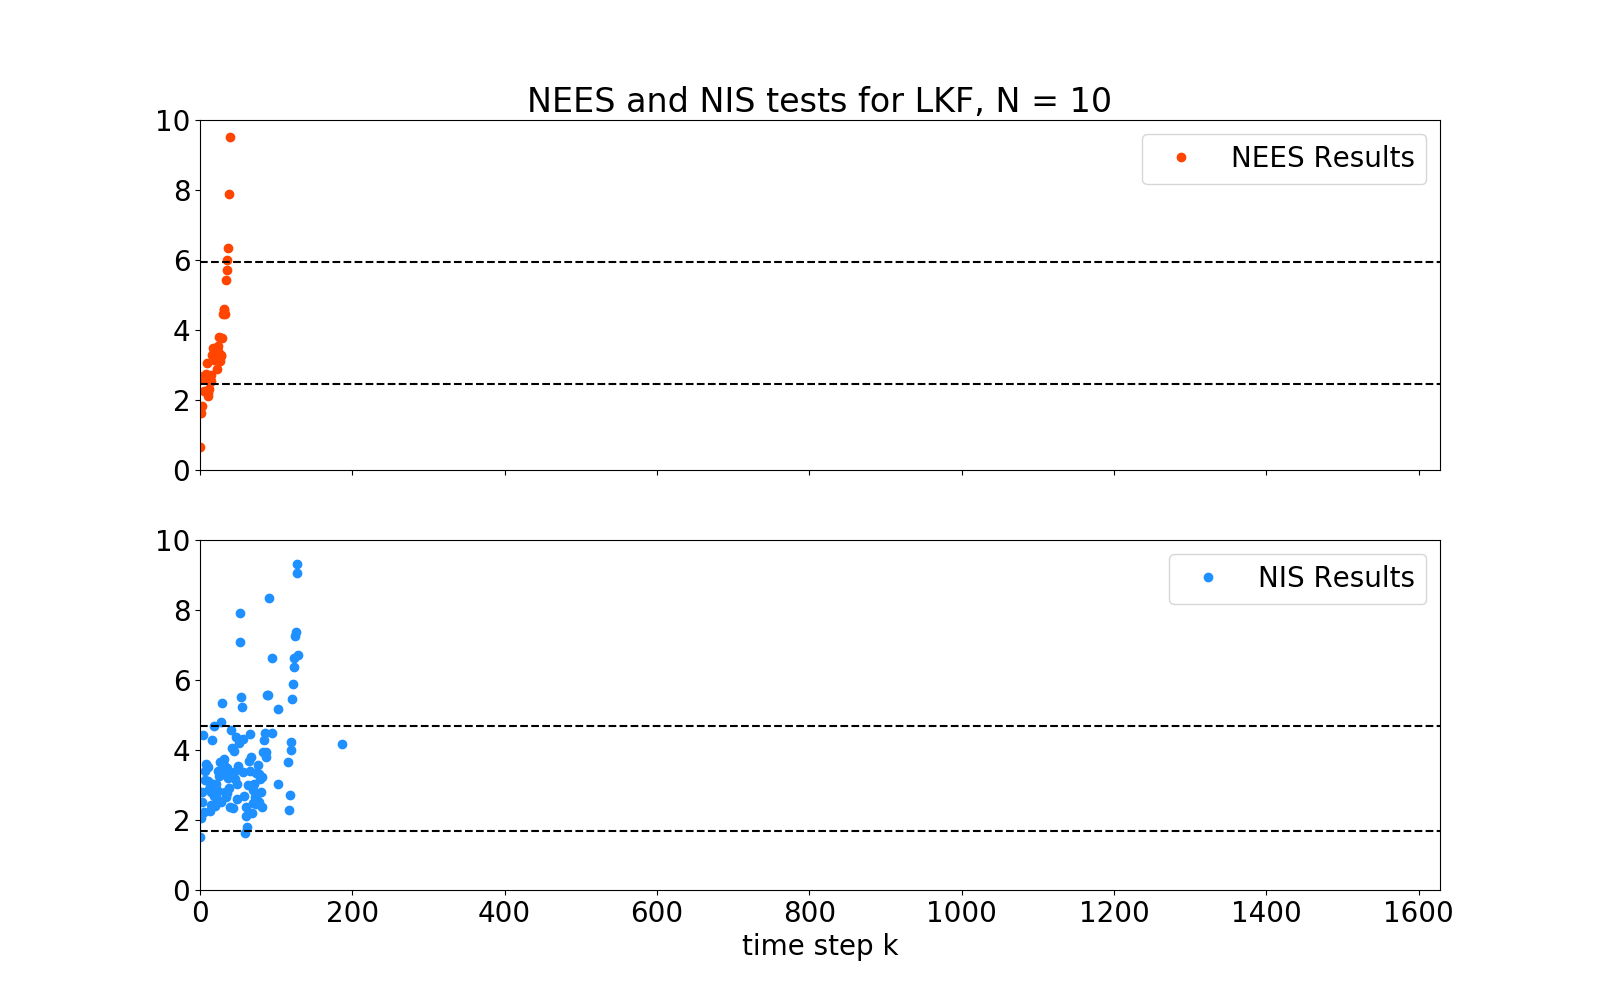
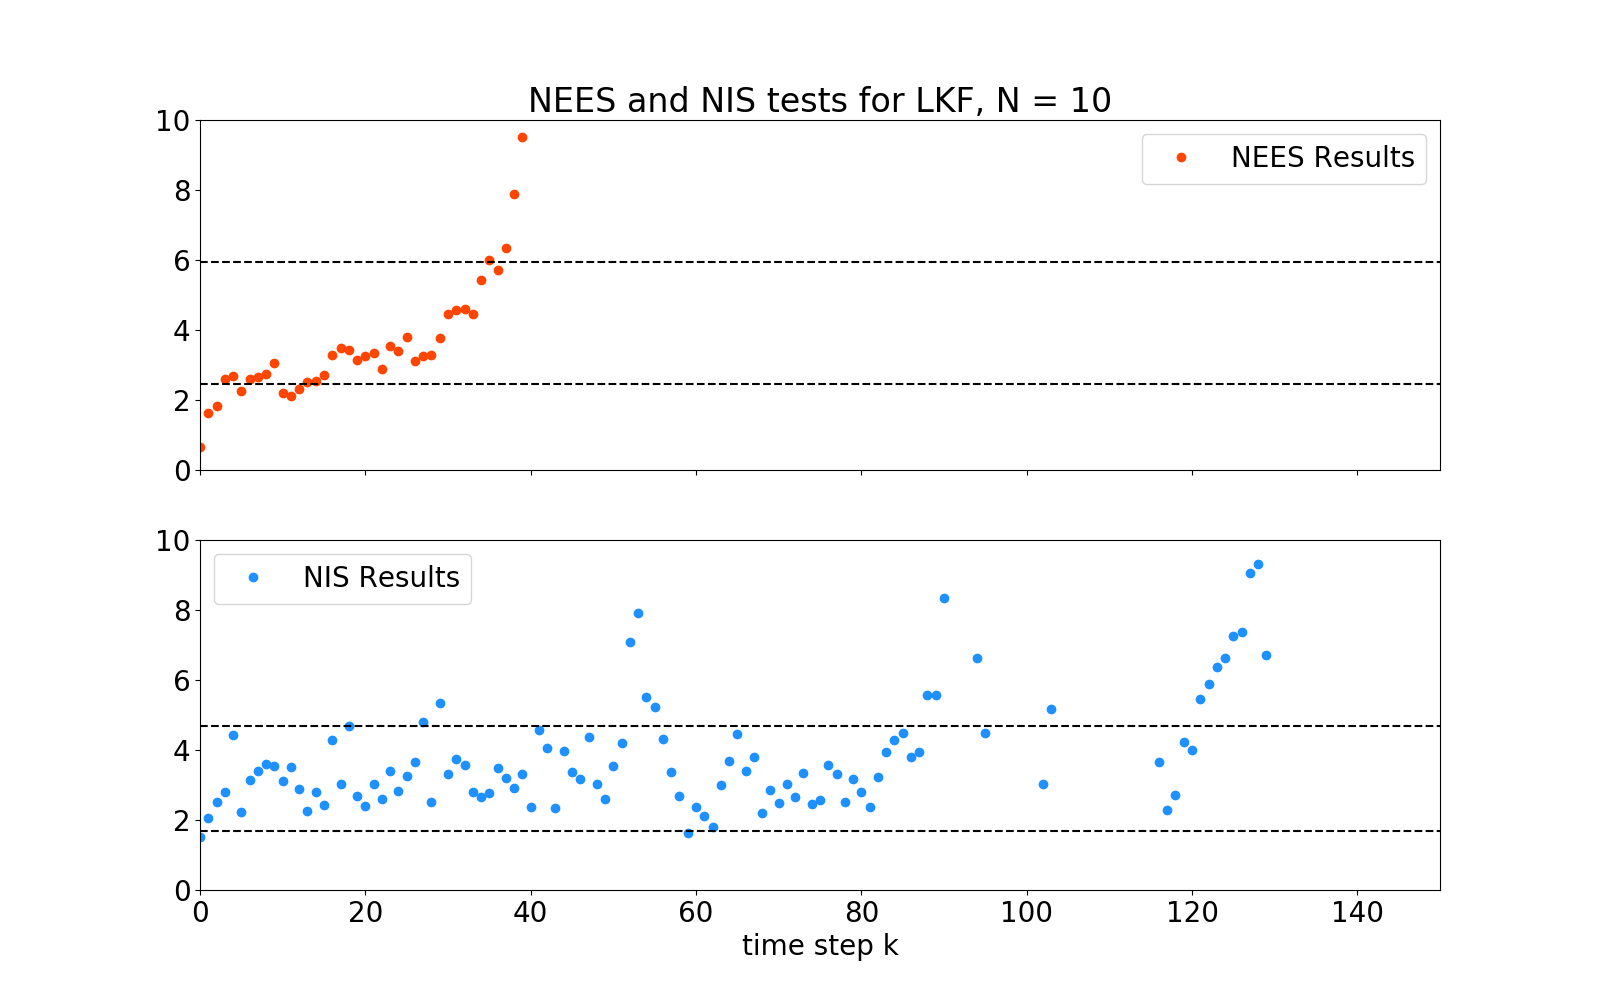
werkin on tuning sections

diff --git a/Report/main.tex b/Report/main.tex
@@ -2,6 +2,7 @@
 \usepackage[margin=1.1in]{geometry}	% edit margins
 \usepackage{amsmath}			% for math symbols
 \usepackage{graphicx}			% including figures
+\usepackage{grffile}			% for weird filenames with more dots
 \usepackage{float}			% placing figures at specific location
 \usepackage{amssymb}			% math symbols
 \usepackage{color, soul}			% for highlighting
@@ -34,6 +35,7 @@ In developing these algorithms, we assume the process and measurement noise are 
 We then iterate on different process noise and measurement noise covariance matrices and evaluate the algorithms using \_\_\_\_ (NEES) and \_\_\_\_ (NIS) tests until suitable values for uncertainty are found. 
 
 \section{Part I. Basic System Analysis}
+\label{sec: Part I}
 
 \subsection{CT Model Jacobians}
 
@@ -63,7 +65,7 @@ This indicates that the linearized dynamics are only appropriate for short time 
 
 \begin{figure}[H]
 	\centering
-	\includegraphics[width=0.8\textwidth]{./Figures/nonlvl_state.png}
+	\includegraphics[width=\textwidth]{./Figures/nonlvl_state.png}
 	\caption{Comparision between nonlinear and linear perturbation propagation.}
 	\label{fig:nlvl_s}
 \end{figure}
@@ -73,7 +75,7 @@ As the perturbed orbit drifts further and further from the nominal orbit, the li
 
 \begin{figure}[H]
 	\centering
-	\includegraphics[width=0.8\textwidth]{./Figures/nonlvl_meas.png}
+	\includegraphics[width=\textwidth]{./Figures/nonlvl_meas.png}
 	\caption{Comparision between nonlinear and linear perturbation propagation.}
 	\label{fig:nlvl_m}
 \end{figure}
@@ -82,6 +84,7 @@ As the perturbed orbit drifts further and further from the nominal orbit, the li
 \section{Nonlinear Filtering}
 
 \subsection{The Linearized Kalman Filter}
+\label{sec: LKF}
 The LKF revolves around the concept of linearizing dynamics and measurement functions around a nominal trajectory at discrete time steps in the filter. 
 This has its benefits in terms of simplicity and computational load, but suffers in terms of accuracy with relatively large deviations from the nominal trajectory. 
 Figures \ref{fig:noisey_states} and \ref{fig:noisey_meas} show a typical noisey truth trajectory and accompanying noisey measurements as compared to the nominal, noiseless trajectory and measurements.  
@@ -122,24 +125,57 @@ Figure \ref{fig:lkf_est} shows the rapidly deriorating estimate error in the LKF
 \subsubsection{NEES and NIS Tests}
 The following are results of NEES and NIS chi-square tests for an implementation of the LKF. 
 \hl{list specs of the sim here when the final figures go in.} 
+
 In the following figures, we plot NEES and NIS values from the filter at time k, averaged over N simulated trajectories. 
 At each time step, the NEES and NIS values are expected to fall into 4 (NEES) or 3 (NIS) degree of freedom $\mathcal{X}^2$ distributions. 
 As such, we expect values to fall within some range of the expecation of these distributions. 
 For this study, we've chosen 95\% confidence bounds, which are denoted with the dotted black lines. 
-\hl{The filter was tuned by adjusting the filter's knowledge of process noise in the system until the simulations reliable generated NEES and NIS results in }
+The filter was tuned by adjusting the filter's knowledge of process noise in the system until the simulations reliably generated NEES and NIS results within the confidence bounds at least 95\% of the time. 
+Note that in the NEES/NIS test below, only a time span of $k\ \epsilon\ [0, 150]$ is shown due to the LKF's poor performance further into the orbit. 
+
+In this first iteration of the tuning process, the Kalman filter was initialized with an internal (guessed) process noise of $Q_{KF} = 10^{-6} \cdot I_{2 x 2}$. 
+The results of this test can be seen in Figure \ref{fig:neesnis_lkf_Qbig}. 
+In both tests---but especially the NEES---the values are biased below the lower confidence bound. 
+This low bias lead to the conclusion that the guessed $Q_{KF}$ is too large, and can be lowered for better filter performance. 
+\begin{figure}[H]
+	\centering
+	\includegraphics[width=\textwidth]{Figures/NEESNIS_lkf_N10Q1.0E-06.png}
+	\caption{NEES and NIS chi-square results over time for N = 10 simulated trajectories. Guessed $Q_{KF} = 10^{-6} \cdot I_{2 x 2}$.}
+	\label{fig:neesnis_lkf_Qbig}
+\end{figure}
+
+In the second iteration of the tuning process, the Kalman filter was initialized with an internal process noise of $Q_{KF} = 10^{-12} \cdot I_{2 x 2}$. 
+The results of this test can be seen in Figure \ref{fig:neesnis_lkf_Qsmall}. 
+In both tests---but especially the NEES---the values are biased above the upper confidence bound. 
+This low bias lead to the conclusion that the guessed $Q_{KF}$ is too too small, and should be increased for as to avoid being smug. 
+\begin{figure}[H]
+	\centering
+	\includegraphics[width=\textwidth]{Figures/NEESNIS_lkf_N10Q1.0E-12.png}
+	\caption{NEES and NIS chi-square results over time for N = 10 simulated trajectories. Guessed $Q_{KF} = 10^{-12} \cdot I_{2 x 2}$.}
+	\label{fig:neesnis_lkf_Qsmall}
+\end{figure}
+
+In this third and final iteration of the tuning process, the Kalman filter was initialized with an internal process noise of $Q_{KF} = 10^{-9} \cdot I_{2 x 2}$. 
+The results of this test can be seen in Figure \ref{fig:neesnis_lkf}.
+While neither is perfect (due to the inherent ineptness of the LKF to this orbit determination problem), the $Q_{KF}$ used here seems to be the best choice. 
 
 \begin{figure}[H]
 	\centering
-	\includegraphics[width=0.8\textwidth]{Figures/{NEESNIS_lkf_N10Q1.0E-09}.png}
-	\caption{NEES and NIS chi-square results over time for N= \hl{N} simulated trajectories. Data points continue to grow past ~600 seconds into the analysis.}
+	\includegraphics[width=\textwidth]{Figures/NEESNIS_lkf_N10Q1.0E-09.png}
+	\caption{NEES and NIS chi-square results over time for N = 10 simulated trajectories. Guessed $Q_{KF} = 10^{-9} \cdot I_{2 x 2}$.}
 	\label{fig:neesnis_lkf}
 \end{figure}
 
-The findings in Section I indicated that the linearized dynamics used in the LFK become invalid as small initial perturbations eventually cause large deviations from the nominal trajectory. 
-Figure \ref{fig:neesnis_lkf} corroborates these findings, and solidifies our understanding of where the LKF is most capable, for small perturbations near the nominal trajectory.  
+\subsubsection{LKF Tuning Conclusions}
+It should be noted that this process outlined above can be an automated process that begins by hopping between very large and very small guesses of $Q_{KF}$ and narrowing in until the ``best" performance is achieved. 
+The specific definition of ``best" performance may be defined by the user of the program who is performing the tuning and does not necessarily represent an absolute optimization. 
+
+The findings in Section \ref{sec: Part I} indicated that the linearized dynamics used in the LFK become invalid as small initial perturbations eventually cause large deviations from the nominal trajectory. 
+Figures \ref{fig:neesnis_lkf_Qbig} - \ref{fig:neesnis_lkf} corroborate these findings, and solidify our understanding of where the LKF is most capable, for small perturbations near the nominal trajectory.  
 
 
 \subsection{The Extended Kalman Filter}
+\label{sec: EKF}
 The EKF relies less on linearizations about an initial nominal trajectory.
 Instead of linearly propagating a deviation in a state, the EKF uses full nonlinear dynamics to propagate its full current state estimate. 
 It then linearizes about its current estimate, rather than the initial nominal trajectory to perform time and measurement updates to the covariance.   
@@ -149,7 +185,7 @@ The EKF, in contrast with the LKF, is much more capable of tracking the perturbe
 
 \begin{figure}[H]
 	\centering
-	\includegraphics[width=0.8\textwidth]{Figures/ekf_estimate_th.png}
+	\includegraphics[width=\textwidth]{Figures/ekf_estimate_th.png}
 	\caption{Typical EKF error estimate over the entire simulation period. }
 	\label{fig:ekf_est}
 \end{figure}
@@ -161,7 +197,7 @@ These results were generated using the same noisey trajectories and measurements
 
 \begin{figure}[H]
 	\centering
-	\includegraphics[width=0.8\textwidth]{./Figures/{NEESNIS_ekf_N10Q1.0E-09}.png}
+	\includegraphics[width=\textwidth]{./Figures/NEESNIS_ekf_N10Q1.0E-09.png}
 	\caption{NEES and NIS chi-square results over time for N= \hl{N} simulated trajectories.}
 	\label{fig:neesnis_ekf}
 \end{figure}
@@ -178,14 +214,14 @@ The results of these  are shown below for the LKF and EKF respectively using the
 
 \begin{figure}[H]
 	\centering
-	\includegraphics[width=0.8\textwidth]{Figures/lkf_dataste_est.png}
+	\includegraphics[width=\textwidth]{Figures/lkf_dataste_est.png}
 	\caption{LKF results using assigment dataset.}
 	\label{fig:lkf_dataset}
 \end{figure}
 
 \begin{figure}[H]
 	\centering
-	\includegraphics[width=0.8\textwidth]{Figures/ekf_dataset_est.png}
+	\includegraphics[width=\textwidth]{Figures/ekf_dataset_est.png}
 	\caption{EKF results using assigment dataset.}
 	\label{fig:ekf_dataset}
 \end{figure}
@@ -210,21 +246,21 @@ The results of an implementation the UKf on the data set used for previous tests
 
 \begin{figure}[H]
 	\centering
-	\includegraphics[width=0.8\textwidth]{Figures/ukf_dataset_est.png}
+	\includegraphics[width=\textwidth]{Figures/ukf_dataset_est.png}
 	\caption{UKF results using assigment dataset.}
 	\label{fig:ukf_dataset}
 \end{figure}
 
 \begin{figure}[H]
 	\centering
-	\includegraphics[width=0.8\textwidth]{Figures/ukf_estimate_th.png}
+	\includegraphics[width=\textwidth]{Figures/ukf_estimate_th.png}
 	\caption{Typical UKF error estimate over the entire simulation period.}
 	\label{fig:ukf_est}
 \end{figure}
 
 \begin{figure}[H]
 	\centering
-	\includegraphics[width=0.8\textwidth]{./Figures/{NEESNIS_ukf_N10Q1.0E-09}.png}
+	\includegraphics[width=\textwidth]{./Figures/NEESNIS_ukf_N10Q1.0E-09.png}
 	\caption{NEES and NIS chi-square results over time for N= \hl{N} simulated trajectories.}
 	\label{fig:neesnis_ukf}
 \end{figure}

diff --git a/main_lkf.py b/main_lkf.py
@@ -8,7 +8,7 @@ This main script performs the following:
 
 Authors:        Keith Covington, Connor Ott
 Created:        09 Dec 2019
-Last Modified:  11 Dec 2019
+Last Modified:  18 Dec 2019
 
 """
 
@@ -30,6 +30,7 @@ from system_def import dt_jac_eval_funcs, ct_nl_funcs
 
 plt.rcParams['font.size'] = 20
 plt.rcParams['figure.figsize'] = 16, 10
+#plt.rc('text', usetex=True)
 # -----------------------// Set up system //-----------------------------------
 
 
@@ -48,13 +49,14 @@ truth_measurements = pickle.load(pickle_in)
 
 
 # ---------// run the LKF with the data provided //--------------
+#Q = np.eye(2) * 1e-9
 Q = np.eye(2) * 1e-9
 system = {
     # Required by KF algo
     "t_0": t_0, 
     "x_0": dx_est_0,
     "P_0": P_0,
-    "Q": Qtrue, 
+    "Q": Q, 
     "R": Rtrue, 
     **dt_jac_eval_funcs, 
     **ct_nl_funcs,
@@ -73,7 +75,7 @@ while len(ycp) > 0:
 report = lkf.report_hist(['x_full_kp1', 'P_post_kp1'])
 
 fig, ax = plt.subplots(n, 1, sharex=True)
-ax[0].set_title('State Errors and 2$\sigma$ Bounds - LKF')
+ax[0].set_title('State Estimate and 2$\sigma$ Bounds - LKF')
 for i in range(n):
     state_quant1 = [x[i] for x in report['x_full_kp1']]
     state_quant2 = [x[i] + 2*np.sqrt(P[i, i]) for x, P in zip(report['x_full_kp1'], report['P_post_kp1'])]
@@ -152,7 +154,8 @@ ax[0].plot(avg_NEES, '.', color='orangered', label='NEES Results')
 ax[0].axhline(bounds_NEES[0], linestyle='--', color='black')
 ax[0].axhline(bounds_NEES[1], linestyle='--', color='black')
 ax[0].set_ylim([0, 10])
-ax[0].autoscale(enable=True, axis='x', tight=True)
+ax[0].set_xlim([0, 150])
+#ax[0].autoscale(enable=True, axis='x', tight=True)
 ax[0].legend()
 
 ax[1].plot(avg_NIS, '.', color='dodgerblue', label='NIS Results')
@@ -160,9 +163,11 @@ ax[1].set_xlabel('time step k')
 ax[1].axhline(bounds_NIS[0], linestyle='--', color='black')
 ax[1].axhline(bounds_NIS[1], linestyle='--', color='black')
 ax[1].set_ylim([0, 10])
-ax[1].autoscale(enable=True, axis='x', tight=True)
+ax[1].set_xlim([0, 150])
+#ax[1].autoscale(enable=True, axis='x', tight=True)
 ax[1].legend()
 
+#fig.savefig(fig_dir + 'NEESNIS_lkf_N' + str(num_traj) + 'Q{:.1E}.png'.format(Q[0, 0]))
 fig.savefig(fig_dir + 'NEESNIS_lkf_N' + str(num_traj) + 'Q{:.1E}.png'.format(Q[0, 0]))
 
 
